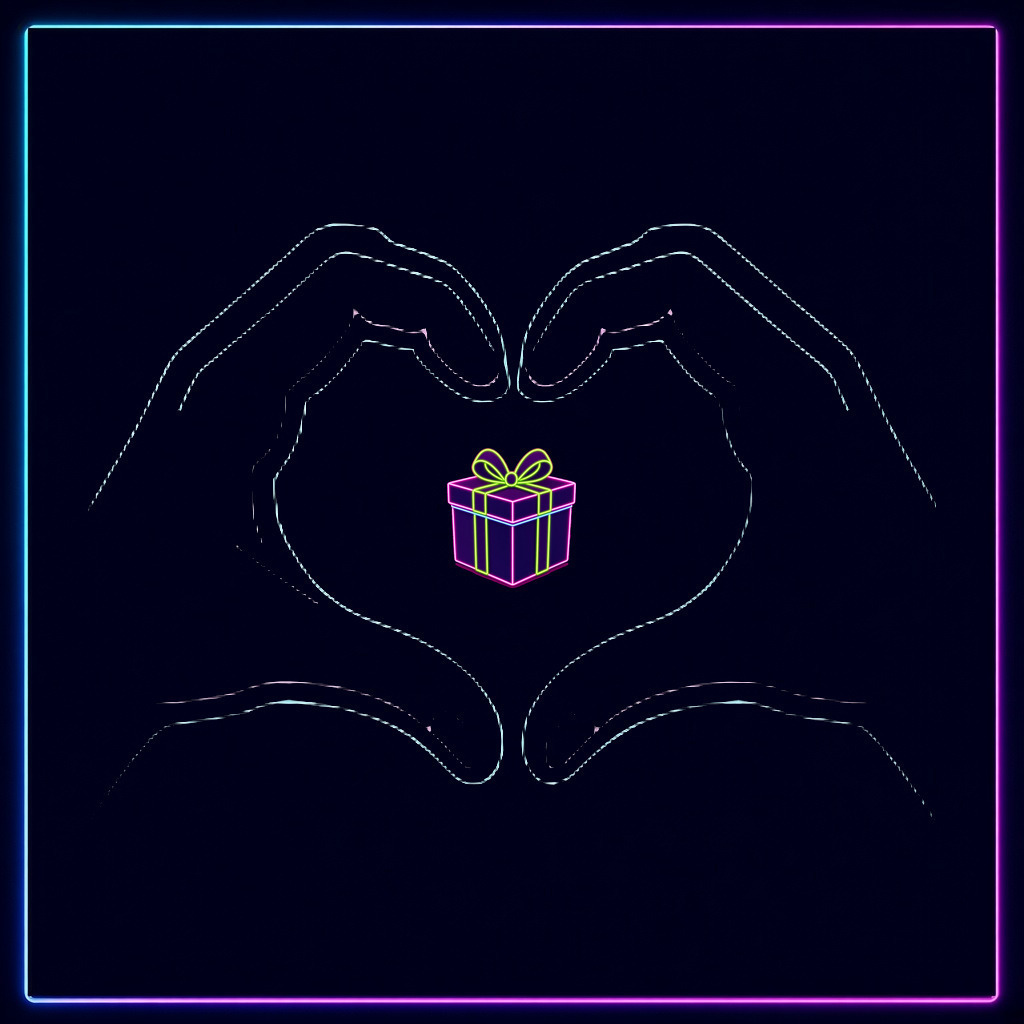
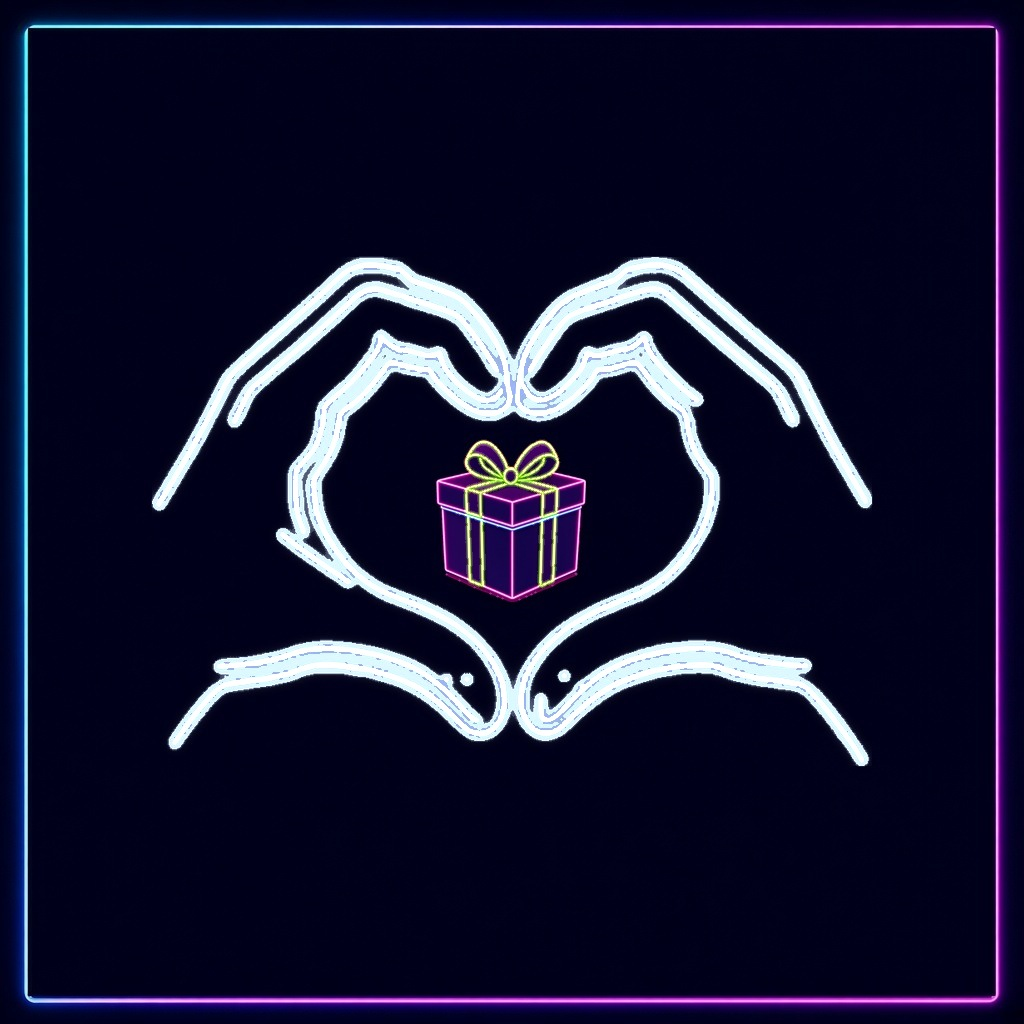
Flip bells, shrink paper star v22, strengthen neon hands
Mirror all-style guide-bell so the bell hangs opposite the prior
side. Paper cover v22 uses a smaller solid tree-topper star.
Regen neon gift/bell/next hands with stronger cyan outlines.
Cache-bust VERS.

Changed region(s): [[0.1562, 0.2188, 0.875, 0.75], [0.125, 0.4375, 0.1875, 0.5]]

diff --git a/hosts/neon/src/vintageAssets.js b/hosts/neon/src/vintageAssets.js
@@ -7,25 +7,25 @@ const BASE = import.meta.env.BASE_URL
 const V = `${BASE}vintage`
 
 export const VINTAGE = {
-  guideSnow: `${V}/guide-snow.jpg?v=15`,
-  guideGift: `${V}/guide-gift.jpg?v=15`,
-  guideBell: `${V}/guide-bell.jpg?v=15`,
-  guideAntlers: `${V}/guide-antlers.jpg?v=15`,
-  guideHat: `${V}/guide-hat.jpg?v=15`,
-  guideNext: `${V}/guide-next.jpg?v=15`,
-  guideTree: `${V}/guide-tree.jpg?v=15`,
-  santaHat: `${V}/santa-hat.png?v=3`,
-  antlers: `${V}/antlers.png?v=3`,
-  gift: `${V}/gift.png?v=3`,
-  giftBox: `${V}/gift-box.png?v=3`,
-  giftLid: `${V}/gift-lid.png?v=3`,
-  bell: `${V}/bell.png?v=3`,
-  tree: `${V}/tree.png?v=3`,
-  wreath: `${V}/wreath.png?v=3`,
-  candle: `${V}/candle.png?v=3`,
-  stamp: `${V}/stamp.png?v=3`,
-  bow: `${V}/bow.png?v=3`,
-  heroPostcard: `${V}/hero-postcard.jpg?v=3`,
+  guideSnow: `${V}/guide-snow.jpg?v=16`,
+  guideGift: `${V}/guide-gift.jpg?v=16`,
+  guideBell: `${V}/guide-bell.jpg?v=16`,
+  guideAntlers: `${V}/guide-antlers.jpg?v=16`,
+  guideHat: `${V}/guide-hat.jpg?v=16`,
+  guideNext: `${V}/guide-next.jpg?v=16`,
+  guideTree: `${V}/guide-tree.jpg?v=16`,
+  santaHat: `${V}/santa-hat.png?v=4`,
+  antlers: `${V}/antlers.png?v=4`,
+  gift: `${V}/gift.png?v=4`,
+  giftBox: `${V}/gift-box.png?v=4`,
+  giftLid: `${V}/gift-lid.png?v=4`,
+  bell: `${V}/bell.png?v=4`,
+  tree: `${V}/tree.png?v=4`,
+  wreath: `${V}/wreath.png?v=4`,
+  candle: `${V}/candle.png?v=4`,
+  stamp: `${V}/stamp.png?v=4`,
+  bow: `${V}/bow.png?v=4`,
+  heroPostcard: `${V}/hero-postcard.jpg?v=4`,
 }
 
 export async function preloadVintageAssets() {

diff --git a/hosts/paper/src/vintageAssets.js b/hosts/paper/src/vintageAssets.js
@@ -7,25 +7,25 @@ const BASE = import.meta.env.BASE_URL
 const V = `${BASE}vintage`
 
 export const VINTAGE = {
-  guideSnow: `${V}/guide-snow.jpg?v=15`,
-  guideGift: `${V}/guide-gift.jpg?v=15`,
-  guideBell: `${V}/guide-bell.jpg?v=15`,
-  guideAntlers: `${V}/guide-antlers.jpg?v=15`,
-  guideHat: `${V}/guide-hat.jpg?v=15`,
-  guideNext: `${V}/guide-next.jpg?v=15`,
-  guideTree: `${V}/guide-tree.jpg?v=15`,
-  santaHat: `${V}/santa-hat.png?v=1`,
-  antlers: `${V}/antlers.png?v=1`,
-  gift: `${V}/gift.png?v=1`,
-  giftBox: `${V}/gift-box.png?v=1`,
-  giftLid: `${V}/gift-lid.png?v=1`,
-  bell: `${V}/bell.png?v=1`,
-  tree: `${V}/tree.png?v=1`,
-  wreath: `${V}/wreath.png?v=1`,
-  candle: `${V}/candle.png?v=1`,
-  stamp: `${V}/stamp.png?v=1`,
-  bow: `${V}/bow.png?v=1`,
-  heroPostcard: `${V}/hero-postcard.jpg?v=1`,
+  guideSnow: `${V}/guide-snow.jpg?v=16`,
+  guideGift: `${V}/guide-gift.jpg?v=16`,
+  guideBell: `${V}/guide-bell.jpg?v=16`,
+  guideAntlers: `${V}/guide-antlers.jpg?v=16`,
+  guideHat: `${V}/guide-hat.jpg?v=16`,
+  guideNext: `${V}/guide-next.jpg?v=16`,
+  guideTree: `${V}/guide-tree.jpg?v=16`,
+  santaHat: `${V}/santa-hat.png?v=2`,
+  antlers: `${V}/antlers.png?v=2`,
+  gift: `${V}/gift.png?v=2`,
+  giftBox: `${V}/gift-box.png?v=2`,
+  giftLid: `${V}/gift-lid.png?v=2`,
+  bell: `${V}/bell.png?v=2`,
+  tree: `${V}/tree.png?v=2`,
+  wreath: `${V}/wreath.png?v=2`,
+  candle: `${V}/candle.png?v=2`,
+  stamp: `${V}/stamp.png?v=2`,
+  bow: `${V}/bow.png?v=2`,
+  heroPostcard: `${V}/hero-postcard.jpg?v=2`,
 }
 
 export async function preloadVintageAssets() {

diff --git a/hosts/neon/src/pixelAssets.js b/hosts/neon/src/pixelAssets.js
@@ -68,13 +68,13 @@ export function loadImage(src, { scrubMagenta = false } = {}) {
 const BASE = import.meta.env.BASE_URL
 
 export const PIXEL = {
-  guideSnow: `${BASE}pixel/guide-snow.jpg?v=63`,
-  guideGift: `${BASE}pixel/guide-gift.jpg?v=63`,
-  guideBell: `${BASE}pixel/guide-bell.jpg?v=63`,
-  guideAntlers: `${BASE}pixel/guide-antlers.jpg?v=63`,
-  guideHat: `${BASE}pixel/guide-hat.jpg?v=63`,
-  guideNext: `${BASE}pixel/guide-next.jpg?v=63`,
-  guideTree: `${BASE}pixel/guide-tree.jpg?v=63`,
+  guideSnow: `${BASE}pixel/guide-snow.jpg?v=64`,
+  guideGift: `${BASE}pixel/guide-gift.jpg?v=64`,
+  guideBell: `${BASE}pixel/guide-bell.jpg?v=64`,
+  guideAntlers: `${BASE}pixel/guide-antlers.jpg?v=64`,
+  guideHat: `${BASE}pixel/guide-hat.jpg?v=64`,
+  guideNext: `${BASE}pixel/guide-next.jpg?v=64`,
+  guideTree: `${BASE}pixel/guide-tree.jpg?v=64`,
   santaHat: `${BASE}pixel/santa-hat.png?v=3`,
   antlers: `${BASE}pixel/antlers.png?v=2`,
   gift: `${BASE}pixel/gift.png?v=52`,

diff --git a/hosts/paper/src/pixelAssets.js b/hosts/paper/src/pixelAssets.js
@@ -68,13 +68,13 @@ export function loadImage(src, { scrubMagenta = false } = {}) {
 const BASE = import.meta.env.BASE_URL
 
 export const PIXEL = {
-  guideSnow: `${BASE}pixel/guide-snow.jpg?v=63`,
-  guideGift: `${BASE}pixel/guide-gift.jpg?v=63`,
-  guideBell: `${BASE}pixel/guide-bell.jpg?v=63`,
-  guideAntlers: `${BASE}pixel/guide-antlers.jpg?v=63`,
-  guideHat: `${BASE}pixel/guide-hat.jpg?v=63`,
-  guideNext: `${BASE}pixel/guide-next.jpg?v=63`,
-  guideTree: `${BASE}pixel/guide-tree.jpg?v=63`,
+  guideSnow: `${BASE}pixel/guide-snow.jpg?v=64`,
+  guideGift: `${BASE}pixel/guide-gift.jpg?v=64`,
+  guideBell: `${BASE}pixel/guide-bell.jpg?v=64`,
+  guideAntlers: `${BASE}pixel/guide-antlers.jpg?v=64`,
+  guideHat: `${BASE}pixel/guide-hat.jpg?v=64`,
+  guideNext: `${BASE}pixel/guide-next.jpg?v=64`,
+  guideTree: `${BASE}pixel/guide-tree.jpg?v=64`,
   santaHat: `${BASE}pixel/santa-hat.png?v=3`,
   antlers: `${BASE}pixel/antlers.png?v=2`,
   gift: `${BASE}pixel/gift.png?v=52`,

diff --git a/hosts/pixel/src/pixelAssets.js b/hosts/pixel/src/pixelAssets.js
@@ -68,13 +68,13 @@ export function loadImage(src, { scrubMagenta = false } = {}) {
 const BASE = import.meta.env.BASE_URL
 
 export const PIXEL = {
-  guideSnow: `${BASE}pixel/guide-snow.jpg?v=63`,
-  guideGift: `${BASE}pixel/guide-gift.jpg?v=63`,
-  guideBell: `${BASE}pixel/guide-bell.jpg?v=63`,
-  guideAntlers: `${BASE}pixel/guide-antlers.jpg?v=63`,
-  guideHat: `${BASE}pixel/guide-hat.jpg?v=63`,
-  guideNext: `${BASE}pixel/guide-next.jpg?v=63`,
-  guideTree: `${BASE}pixel/guide-tree.jpg?v=63`,
+  guideSnow: `${BASE}pixel/guide-snow.jpg?v=64`,
+  guideGift: `${BASE}pixel/guide-gift.jpg?v=64`,
+  guideBell: `${BASE}pixel/guide-bell.jpg?v=64`,
+  guideAntlers: `${BASE}pixel/guide-antlers.jpg?v=64`,
+  guideHat: `${BASE}pixel/guide-hat.jpg?v=64`,
+  guideNext: `${BASE}pixel/guide-next.jpg?v=64`,
+  guideTree: `${BASE}pixel/guide-tree.jpg?v=64`,
   santaHat: `${BASE}pixel/santa-hat.png?v=3`,
   antlers: `${BASE}pixel/antlers.png?v=2`,
   gift: `${BASE}pixel/gift.png?v=52`,

diff --git a/hosts/vintage/src/pixelAssets.js b/hosts/vintage/src/pixelAssets.js
@@ -68,13 +68,13 @@ export function loadImage(src, { scrubMagenta = false } = {}) {
 const BASE = import.meta.env.BASE_URL
 
 export const PIXEL = {
-  guideSnow: `${BASE}pixel/guide-snow.jpg?v=63`,
-  guideGift: `${BASE}pixel/guide-gift.jpg?v=63`,
-  guideBell: `${BASE}pixel/guide-bell.jpg?v=63`,
-  guideAntlers: `${BASE}pixel/guide-antlers.jpg?v=63`,
-  guideHat: `${BASE}pixel/guide-hat.jpg?v=63`,
-  guideNext: `${BASE}pixel/guide-next.jpg?v=63`,
-  guideTree: `${BASE}pixel/guide-tree.jpg?v=63`,
+  guideSnow: `${BASE}pixel/guide-snow.jpg?v=64`,
+  guideGift: `${BASE}pixel/guide-gift.jpg?v=64`,
+  guideBell: `${BASE}pixel/guide-bell.jpg?v=64`,
+  guideAntlers: `${BASE}pixel/guide-antlers.jpg?v=64`,
+  guideHat: `${BASE}pixel/guide-hat.jpg?v=64`,
+  guideNext: `${BASE}pixel/guide-next.jpg?v=64`,
+  guideTree: `${BASE}pixel/guide-tree.jpg?v=64`,
   santaHat: `${BASE}pixel/santa-hat.png?v=3`,
   antlers: `${BASE}pixel/antlers.png?v=2`,
   gift: `${BASE}pixel/gift.png?v=52`,

diff --git a/src/pixelAssets.js b/src/pixelAssets.js
@@ -68,13 +68,13 @@ export function loadImage(src, { scrubMagenta = false } = {}) {
 const BASE = import.meta.env.BASE_URL
 
 export const PIXEL = {
-  guideSnow: `${BASE}pixel/guide-snow.jpg?v=63`,
-  guideGift: `${BASE}pixel/guide-gift.jpg?v=63`,
-  guideBell: `${BASE}pixel/guide-bell.jpg?v=63`,
-  guideAntlers: `${BASE}pixel/guide-antlers.jpg?v=63`,
-  guideHat: `${BASE}pixel/guide-hat.jpg?v=63`,
-  guideNext: `${BASE}pixel/guide-next.jpg?v=63`,
-  guideTree: `${BASE}pixel/guide-tree.jpg?v=63`,
+  guideSnow: `${BASE}pixel/guide-snow.jpg?v=64`,
+  guideGift: `${BASE}pixel/guide-gift.jpg?v=64`,
+  guideBell: `${BASE}pixel/guide-bell.jpg?v=64`,
+  guideAntlers: `${BASE}pixel/guide-antlers.jpg?v=64`,
+  guideHat: `${BASE}pixel/guide-hat.jpg?v=64`,
+  guideNext: `${BASE}pixel/guide-next.jpg?v=64`,
+  guideTree: `${BASE}pixel/guide-tree.jpg?v=64`,
   santaHat: `${BASE}pixel/santa-hat.png?v=3`,
   antlers: `${BASE}pixel/antlers.png?v=2`,
   gift: `${BASE}pixel/gift.png?v=52`,

diff --git a/hosts/vintage/src/vintageAssets.js b/hosts/vintage/src/vintageAssets.js
@@ -5,7 +5,7 @@ import { loadImage } from './pixelAssets.js'
 
 const BASE = import.meta.env.BASE_URL
 const V = `${BASE}vintage`
-const VER = '15'
+const VER = '16'
 
 export const VINTAGE = {
   guideSnow: `${V}/guide-snow.jpg?v=${VER}`,

diff --git a/src/vintageAssets.js b/src/vintageAssets.js
@@ -5,7 +5,7 @@ import { loadImage } from './pixelAssets.js'
 
 const BASE = import.meta.env.BASE_URL
 const V = `${BASE}vintage`
-const VER = '15'
+const VER = '16'
 
 export const VINTAGE = {
   guideSnow: `${V}/guide-snow.jpg?v=${VER}`,

diff --git a/hosts/paper/src/paperAssets.js b/hosts/paper/src/paperAssets.js
@@ -5,7 +5,7 @@ import { loadImage } from './pixelAssets.js'
 
 const BASE = import.meta.env.BASE_URL
 const P = `${BASE}paper`
-const VER = '19'
+const VER = '20'
 
 export const PAPER = {
   guideSnow: `${P}/guide-snow.jpg?v=${VER}`,

diff --git a/src/paperAssets.js b/src/paperAssets.js
@@ -5,7 +5,7 @@ import { loadImage } from './pixelAssets.js'
 
 const BASE = import.meta.env.BASE_URL
 const P = `${BASE}paper`
-const VER = '19'
+const VER = '20'
 
 export const PAPER = {
   guideSnow: `${P}/guide-snow.jpg?v=${VER}`,

diff --git a/hosts/neon/src/neonAssets.js b/hosts/neon/src/neonAssets.js
@@ -5,7 +5,7 @@ import { loadImage } from './pixelAssets.js'
 
 const BASE = import.meta.env.BASE_URL
 const N = `${BASE}neon`
-const VER = '17'
+const VER = '18'
 const FLAKE_VER = '4'
 
 export const NEON = {
